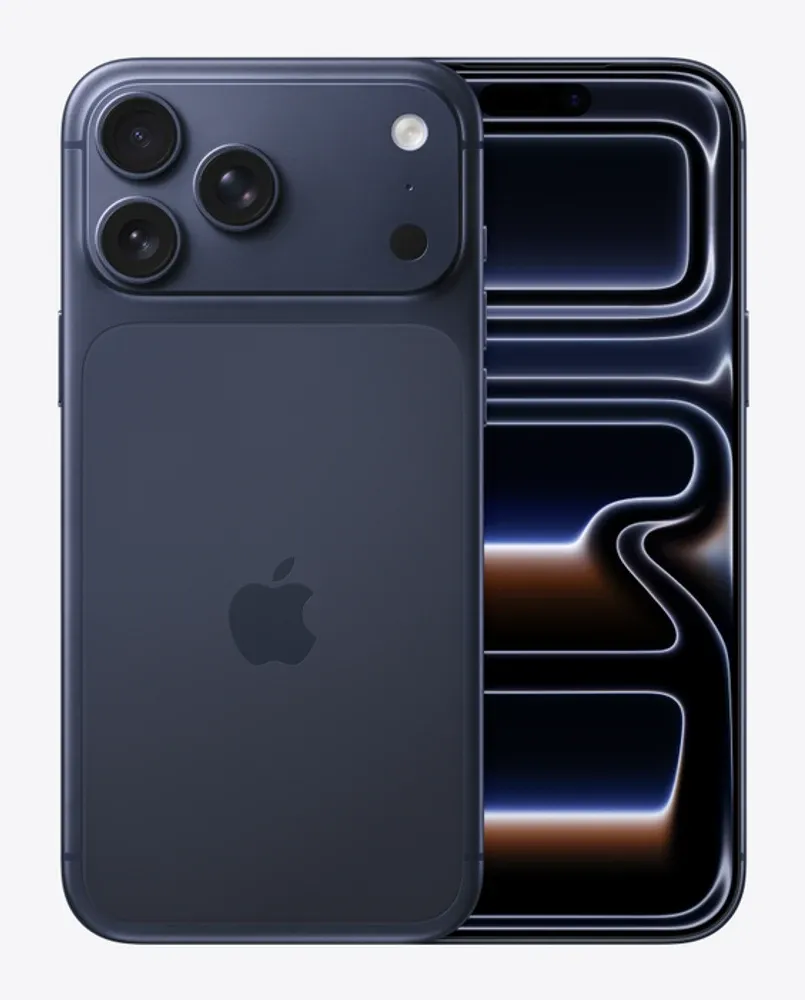
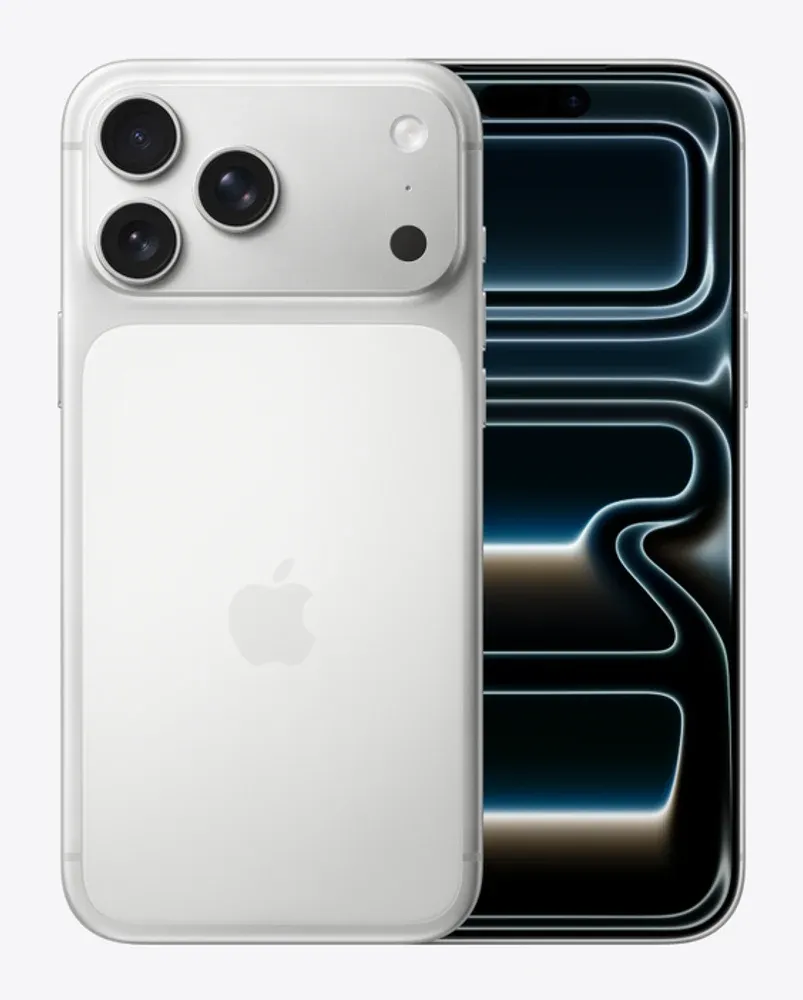
fix(gear): Show the silver iPhone 17 Pro Max (#27)
## Summary

- The gear page shows the silver iPhone 17 Pro Max, matching the phone
you own.

## Changes

- Swap the Deep Blue photo for Apple's Silver iPhone 17 Pro Max image
and add the Silver label.

## Technical details

Content only; the use description is unchanged.

## How to test

1. Run `yarn dev` and open `/gear`: the phone card shows a silver iPhone
17 Pro Max.

## Risk / impact

- None

## Companion PRs

- None

## Follow-ups

- None

diff --git a/src/content/gear.ts b/src/content/gear.ts
@@ -101,12 +101,13 @@ export const gear: readonly GearItem[] = [
   {
     name: "iPhone 17 Pro Max",
     detail: "Mobile device",
+    color: "Silver",
     use: "Real-device QA for responsive interfaces, PWAs, authentication, and mobile product flows.",
     kind: "phone",
     image: {
       src: "/images/gear/iphone-17-pro-max.webp",
-      alt: "iPhone 17 Pro Max in Deep Blue, back and front",
-      width: 805,
+      alt: "iPhone 17 Pro Max in Silver, back and front",
+      width: 803,
       height: 1000,
     },
   },
